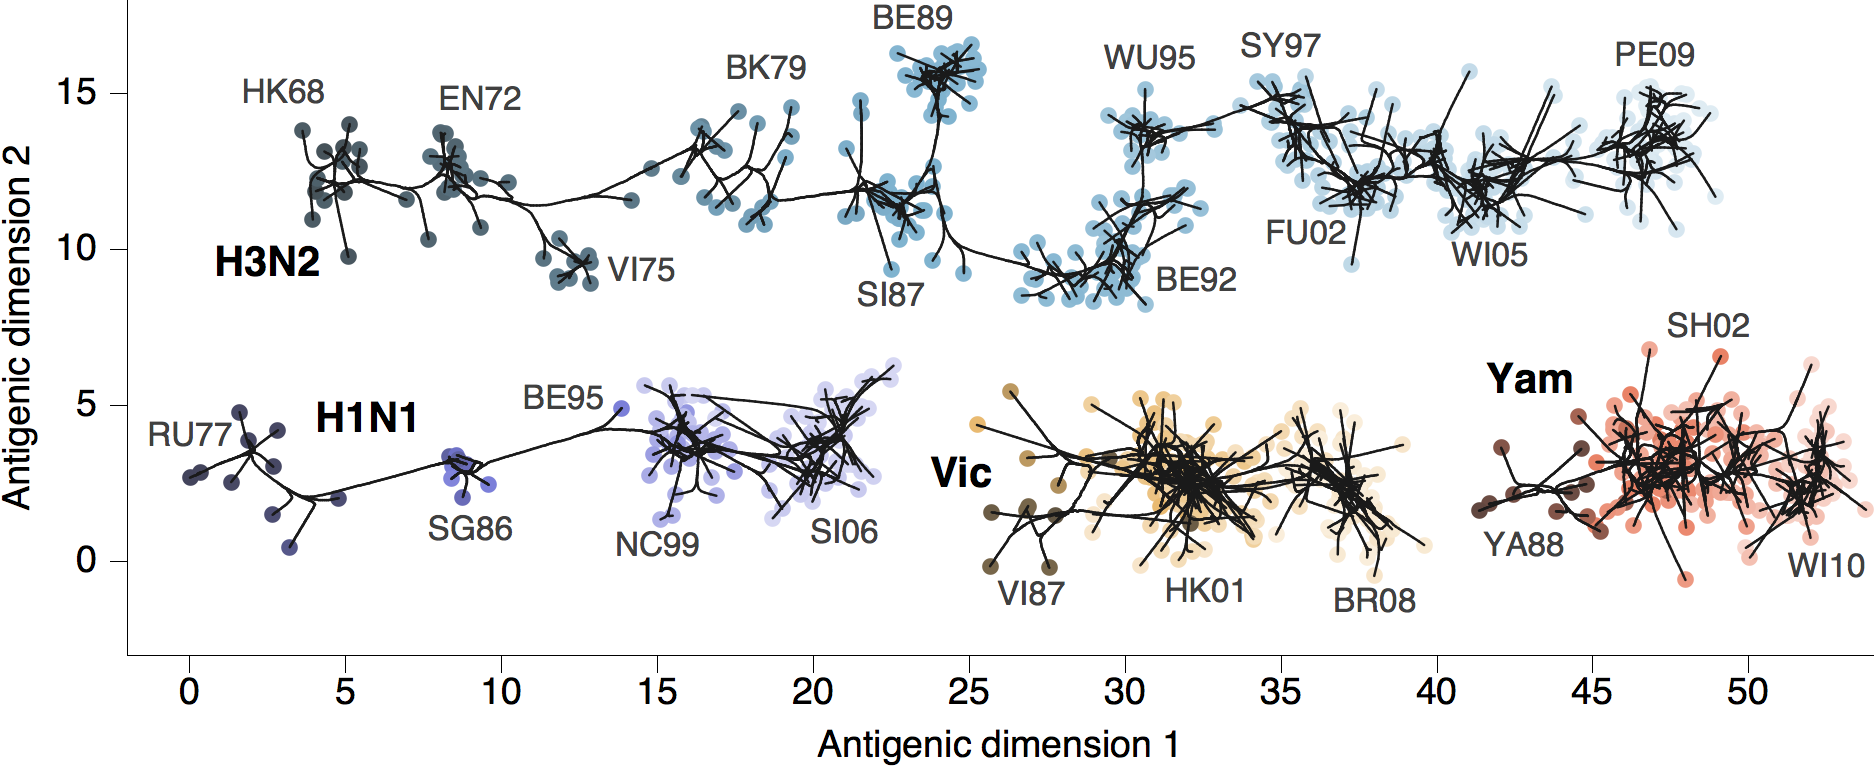
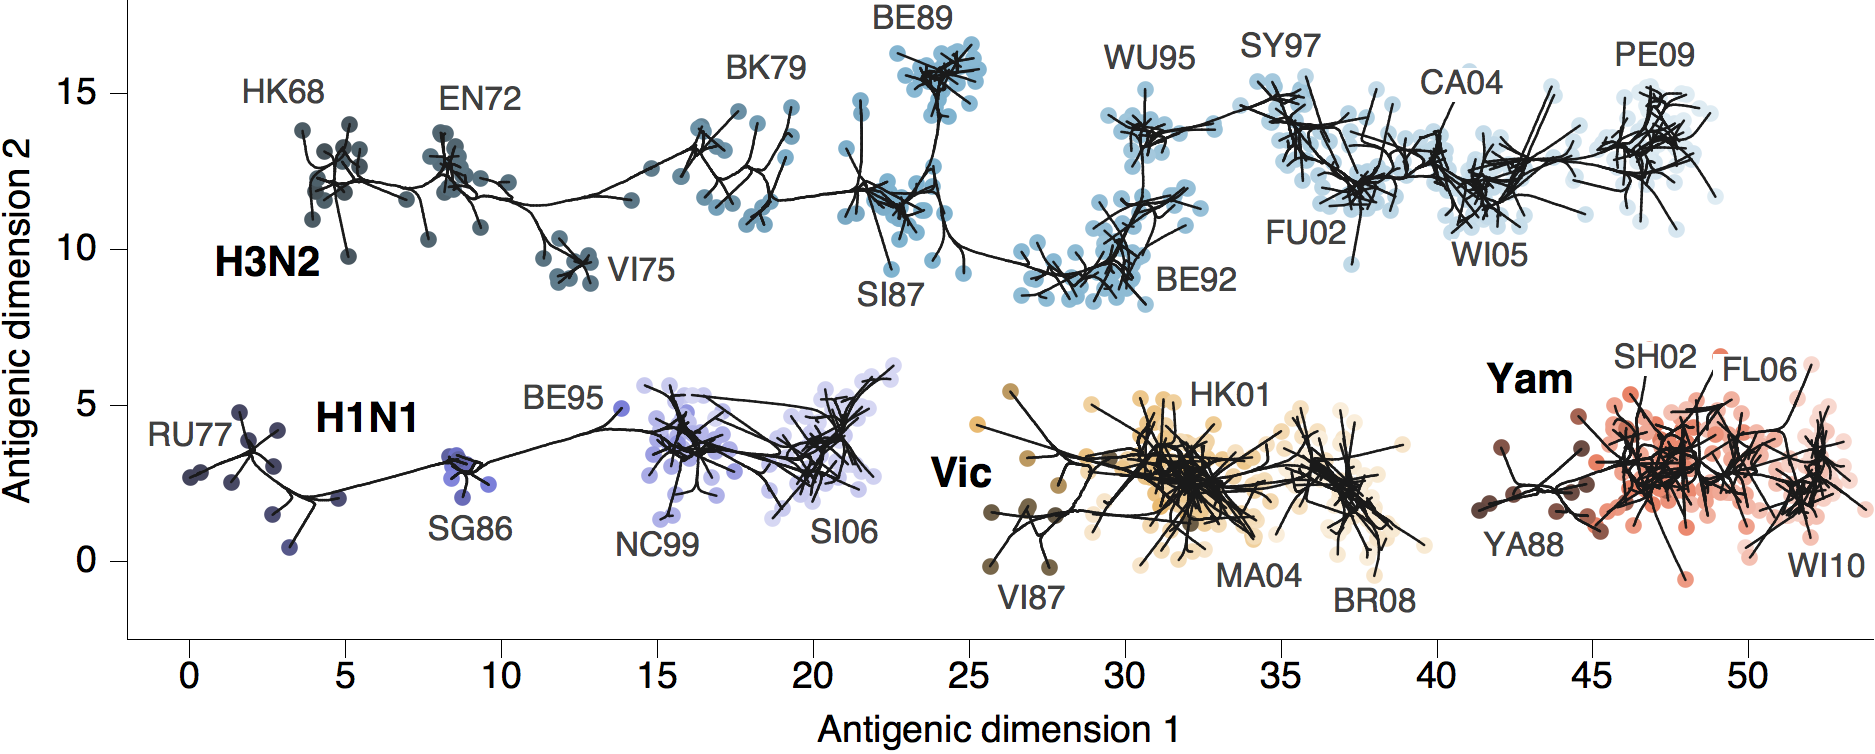
Further revisions to clarify what I mean by "drift" and "clade".

diff --git a/flux.tex b/flux.tex
@@ -65,9 +65,9 @@
 \newcommand{\vn}{n}									% number of viruses
 \newcommand{\sn}{k}									% number of sera
 \newcommand{\normal}{\mathcal{N}}					% normal distribution
-\newcommand{\bwithin}{\beta_\mathrm{within}}		% within clade drift coefficient
-\newcommand{\bsister}{\beta_\mathrm{sister}}		% sister clade drift coefficient
-\newcommand{\bother}{\beta_\mathrm{other}}			% across clade drift coefficient
+\newcommand{\bwithin}{\beta_c}		% within clade drift coefficient
+\newcommand{\bsister}{\beta_s}		% sister clade drift coefficient
+\newcommand{\bother}{\beta_t}			% across clade drift coefficient
 \newcommand{\driftclade}[1]{x_\mathrm{#1}}
 \setlength{\arraycolsep}{2pt}
 \newcommand{\smalltwomatrix}[2]{\scriptsize \Big( \begin{matrix} #1 \\ #2 \end{matrix} \Big)}				% pretty inline matrix 
@@ -86,15 +86,9 @@
 
 %%% TITLE %%%
 \title{\vspace{1.0cm} \Large \bf 
-Charting antigenic drift and evolutionary success of seasonal influenza lineages \\
-or \\
 Integrating influenza antigenic dynamics with molecular evolution \\
 or \\
-Predicting the evolutionary success of seasonal influenza lineages through the integration of antigenic cartography and molecular evolution \\
-or \\
-Cartographic characterization of the antigenic, evolutionary and competitive dynamics of seasonal influenza viruses \\
-or \\
-Integrating antigenic dynamics with molecular evolution to characterize competition within and between seasonal influenza lineages \\
+Cartographic characterization of the antigenic, evolutionary and competitive dynamics of seasonal influenza viruses 
 }
 
 \author[1]{Trevor Bedford}
@@ -244,7 +238,7 @@ Labeling of prominent antigenic clusters in figures \ref{map} and \ref{drift} is
 	Antigenic units represent two-fold dilutions of the HI assay.
 	Absolute positioning of lineages, e.g.\ A/H3N2 and A/H1N1, is arbitrary.
 	Lines represent mean posterior diffusion paths when virus locations are fixed.
-	Prominent antigenic clusters are labeled after vaccine strains present within clusters, and are abbreviated from Hong Kong/68, England/72, Victoria/75, Bangkok/79, Sichuan/87, Beijing/89, Beijing/92, Wuhan/95, Sydney/97, Fujian/02, Wisconsin/05, Perth/09 (A/H3N2), USSR/77, Singapore/86, Beijing/95, New Caledonia/99, Solomon Islands/06 (H1N1), Victoria/87, Hong Kong/01, Brisbane/08 (Vic), Yamagata/88, Shanghai/02, Wisconsin/10 (Yam).} 
+	Prominent antigenic clusters are labeled after vaccine strains present within clusters, and are abbreviated from Hong Kong/68, England/72, Victoria/75, Bangkok/79, Sichuan/87, Beijing/89, Beijing/92, Wuhan/95, Sydney/97, Fujian/02, California/04, Wisconsin/05, Perth/09 (A/H3N2), USSR/77, Singapore/86, Beijing/95, New Caledonia/99, Solomon Islands/06 (H1N1), Victoria/87, Hong Kong/01, Malaysia/04, Brisbane/08 (Vic), Yamagata/88, Shanghai/02, Florida/06, Wisconsin/10 (Yam).} 
 	\label{map} 
 \end{figure}
 
@@ -252,7 +246,7 @@ HI assays lack sensitivity beyond a certain point, so that for A/H3N2, cross-rea
 Because of the threshold of sensitivity of the HI assay, it's impossible to distinguish a linear trajectory in 2D antigenic space from a slightly curved trajectory, so long as the curve does not bring antigenic phenotype full circle to have cross-reactive measurements between temporally distant strains.
 To solve this problem of identifiability, we assumed a weak prior that favors linear movement in the 2D antigenic space (present in models 2 through 8; Table \ref{errortable}), with the slope of the linear relationship and the precision of the relationship incorporated into the Bayesian model (see Methods).
 Because of this, we interpret map locations locally rather than globally.
-We can determine the rate of antigenic movement of viruses within each clade without knowing the larger configuration under which the movement occurs.
+We can determine rates of antigenic movement without knowing the larger configuration under which the movement occurs.
  
 We find that influenza A/H3N2 evolved along antigenic dimension 1 at a rate of 1.01 antigenic units per year, with a 95\% highest posterior density (HPD) interval of 0.98--1.04 (Figure~\ref{drift}).
 However, we observe occasional large jumps in antigenic phenotype (Figure~\ref{drift}), corresponding to cluster transitions identified by Smith et al. \cite{Smith04}.  
@@ -268,7 +262,7 @@ Most variation is contained within the first antigenic dimension, but dimension 
 	Antigenic units represent two-fold dilutions of the HI assay.
 	Relative positioning of lineages, e.g.\ A/H3N2 and A/H1N1, in the vertical axis is arbitrary.
 	Lines represent mean posterior diffusion paths when virus locations are fixed.
-	Prominent antigenic clusters are labeled after vaccine strains present within clusters, and are abbreviated from Hong Kong/68, England/72, Victoria/75, Bangkok/79, Sichuan/87, Beijing/89, Beijing/92, Wuhan/95, Sydney/97, Fujian/02, Wisconsin/05, Perth/09 (A/H3N2), USSR/77, Singapore/86, Beijing/95, New Caledonia/99, Solomon Islands/06 (H1N1), Victoria/87, Hong Kong/01, Brisbane/08 (Vic), Yamagata/88, Shanghai/02, Wisconsin/10 (Yam).} 
+	Prominent antigenic clusters are labeled after vaccine strains present within clusters, and are abbreviated from Hong Kong/68, England/72, Victoria/75, Bangkok/79, Sichuan/87, Beijing/89, Beijing/92, Wuhan/95, Sydney/97, Fujian/02, California/04, Wisconsin/05, Perth/09 (A/H3N2), USSR/77, Singapore/86, Beijing/95, New Caledonia/99, Solomon Islands/06 (H1N1), Victoria/87, Hong Kong/01, Malaysia/04, Brisbane/08 (Vic), Yamagata/88, Shanghai/02, Florida/06, Wisconsin/10 (Yam).} 
 	\label{drift} 
 \end{figure}
 
@@ -286,10 +280,9 @@ For A/H3N2, the largest cluster transition we observe is the emergence of the Sy
 However, in 1997 only three of the nine viruses sampled show the Sydney/97 phenotype, while the remaining six viruses exhibit the old Wuhan/95 phenotype.
 In 1998, three of the four viruses sampled show the Sydney/97 phenotype, with the remaining virus still showing the Wuhan/95 phenotype.
 In 1999, all sampled viruses exhibit the Sydney/97 phenotype.
-Thus, we observe fairly equal rates of year-to-year drift in mean antigenic phenotype in going from 1996 to 1997, from 1997 to 1998 and from 1998 to 1999, rather than all drift in mean antigenic phenotype attributable to a shift in 1997 (Figure~\ref{jumps}).
-This observation remains despite the fact that antigenic drift is accomplished, not by steady movement of the entire virus population, but by the successive emergence of drifted variants that come to take over the virus population.
-In addition to showing greater overall rates of antigenic drift, A/H3N2 shows greater variation in year-to-year drift than seen in A/H1N1 or influenza B (Figure~\ref{jumps}).
-We find that the standard deviation in year-to-year drift is 0.88 antigenic units for A/H3N2, 0.51 units for A/H1N1, 0.54 units for B/Vic and 0.27 units for B/Yam.
+Thus, we observe fairly equal rates of year-to-year drift in mean antigenic phenotype between 1996 and 1999, rather than all drift in mean antigenic phenotype coinciding with the appearence of a new antigenic variant in 1997 (Figure~\ref{jumps}).
+It is interesting that this phenomenon occurs despite the fact that antigenic drift is accomplished, not by steady movement of the entire virus population, but by the successive emergence of drifted variants that each come to take over the virus population.
+Because drifted variants require, on average, 2--3 years to take over the virus population, rates of year-to-year drift do not always spike heavily at the appearance of a new variant.
 
 %%% jumps %%%
 \begin{figure}[h]
@@ -322,15 +315,15 @@ Here, within-clade drift explains 35\% of the variance in standardized incidence
 
 We further show that incidence within a clade decreases with antigenic drift in other clades, e.g.\ drift in A/H1N1, B/Vic and B/Yam from 2000 to 2001 decrease incidence of A/H3N2 in the 2001/2002 season (Figure~\ref{incidence}B).
 This also represents a significant relationship (Pearson correlation, $r=-0.20$, $p=0.024$).
-We fit a linear model that predicts standardized incidence based upon drift within clades, drift in sister clades, and drift in other clades (Table~\ref{interferencetable}).
-For example, standardized incidence in A/H3N2 would be explained by drift within A/H3N2, drift in sister clade A/H1N1 and by drift in other clades B/Vic and B/Yam.
+We fit a linear model that predicts standardized incidence based upon drift within a clade, drift in other clades of same type, and drift in clades of differing type (Table~\ref{interferencetable}).
+For example, standardized incidence in A/H3N2 would be explained by drift within A/H3N2, drift in A/H1N1 and by drift across types in B/Vic and B/Yam.
 We compared adjusted $R^2$ across models with different regression coefficients included, and arrived at a best-fitting model that explains 46\% of the variance in standardized incidence and includes the terms $\bwithin$, $\bsister$ and $\bother$, but does not include an intercept term.
-We find that 1 unit of antigenic drift within a clade increases incidence by 1.26 standard deviations, while 1 unit of antigenic drift in a sister clade decreases incidence by 0.61 standard deviations and 1 unit of antigenic drift in other clades decreases incidence by 0.32 standard deviations.
+We find that 1 unit of antigenic drift within a clade increases incidence by 1.26 standard deviations, while 1 unit of drift in a clade of the same type decreases incidence by 0.61 standard deviations and 1 unit of drift in clades of differing type decreases incidence by 0.32 standard deviations.
 
 %%% interferencetable %%%
 \begin{table}[h]
 	\centering
-	\caption{\textbf{Estimates of regression coefficients for the relationship of clade-specific USA incidence to antigenic drift within and across clades, where standardized incidence in A/H3N2 is predicted by $\bwithin \times \driftclade{H3} + \bsister \times \driftclade{H1} + \bother \times \driftclade{Vic} + \bother \times \driftclade{Yam}$ and standardized incidence in other clades follows an analogous relationship.}}
+	\caption{\textbf{Estimates of regression coefficients for the relationship of clade-specific USA incidence to antigenic drift within and across clades, where standardized incidence in A/H3N2 is predicted by $\bwithin \, \driftclade{H3} + \bsister \, \driftclade{H1} + \bother \, \driftclade{Vic} + \bother \, \driftclade{Yam}$ and standardized incidence in other clades follows an analogous relationship.}}
 	\label{interferencetable}	
 	\begin{tabular}{ c c c c } 
 	\hline
@@ -343,7 +336,7 @@ We find that 1 unit of antigenic drift within a clade increases incidence by 1.2
 	\end{tabular}
 \end{table}
 
-These findings clearly demonstrate the epidemiological importance of antigenic drift and show that incidence across influenza clades A/H3N2, A/H1N1, B/Vic and B/Yam is strongly influenced by levels of antigenic drift within each clade, consistent with antigenic drift increasing the susceptible pool available to a clade.
+These findings clearly demonstrate the epidemiological importance of antigenic drift and show that incidence across  A/H3N2, A/H1N1, B/Vic and B/Yam is strongly influenced by levels of antigenic drift within each clade, consistent with antigenic drift increasing the susceptible pool available to a clade.
 The finding of a negative correlation between incidence within one clade and antigenic drift in other clades supports the hypothesis that epidemiological interference exists between clades \cite{Ferguson03, Goldstein11}.
 Interestingly, we find that interference between sister clades, e.g.\ B/Vic and B/Yam, appears stronger than interference between more divergent clades, e.g.\ B/Vic and A/H3N2.
 If interference is mediated by CTL epitopes, then we would expect interference to decrease with evolutionary distance \cite{Voeten00}.
